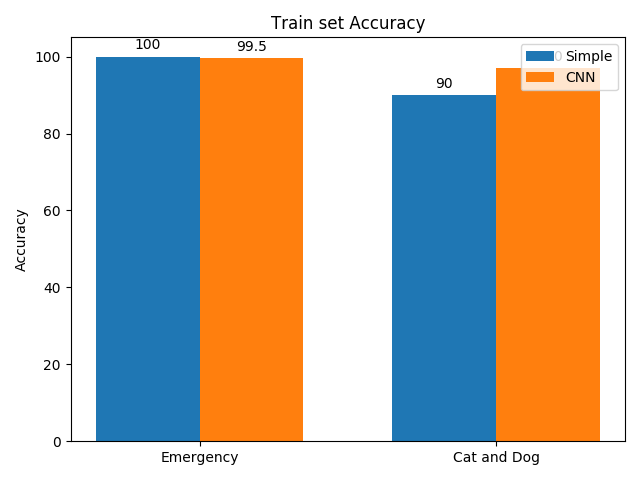
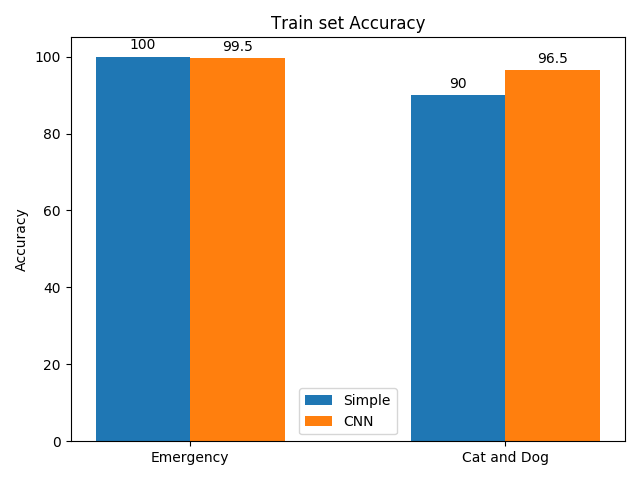
Results plots added.

diff --git a/resultAndPlots.py b/resultAndPlots.py
@@ -39,10 +39,10 @@ plt.show()
 
 
 trainAccSimple = [100, 90]
-trainAccCnn = [99.5, 97]
+trainAccCnn = [99.5, 96.5]
 
 x = np.arange(len(labels))
-width = 0.35
+width = 0.3
 
 fig, ax = plt.subplots()
 rects1 = ax.bar(x - width / 2, trainAccSimple, width, label='Simple')
